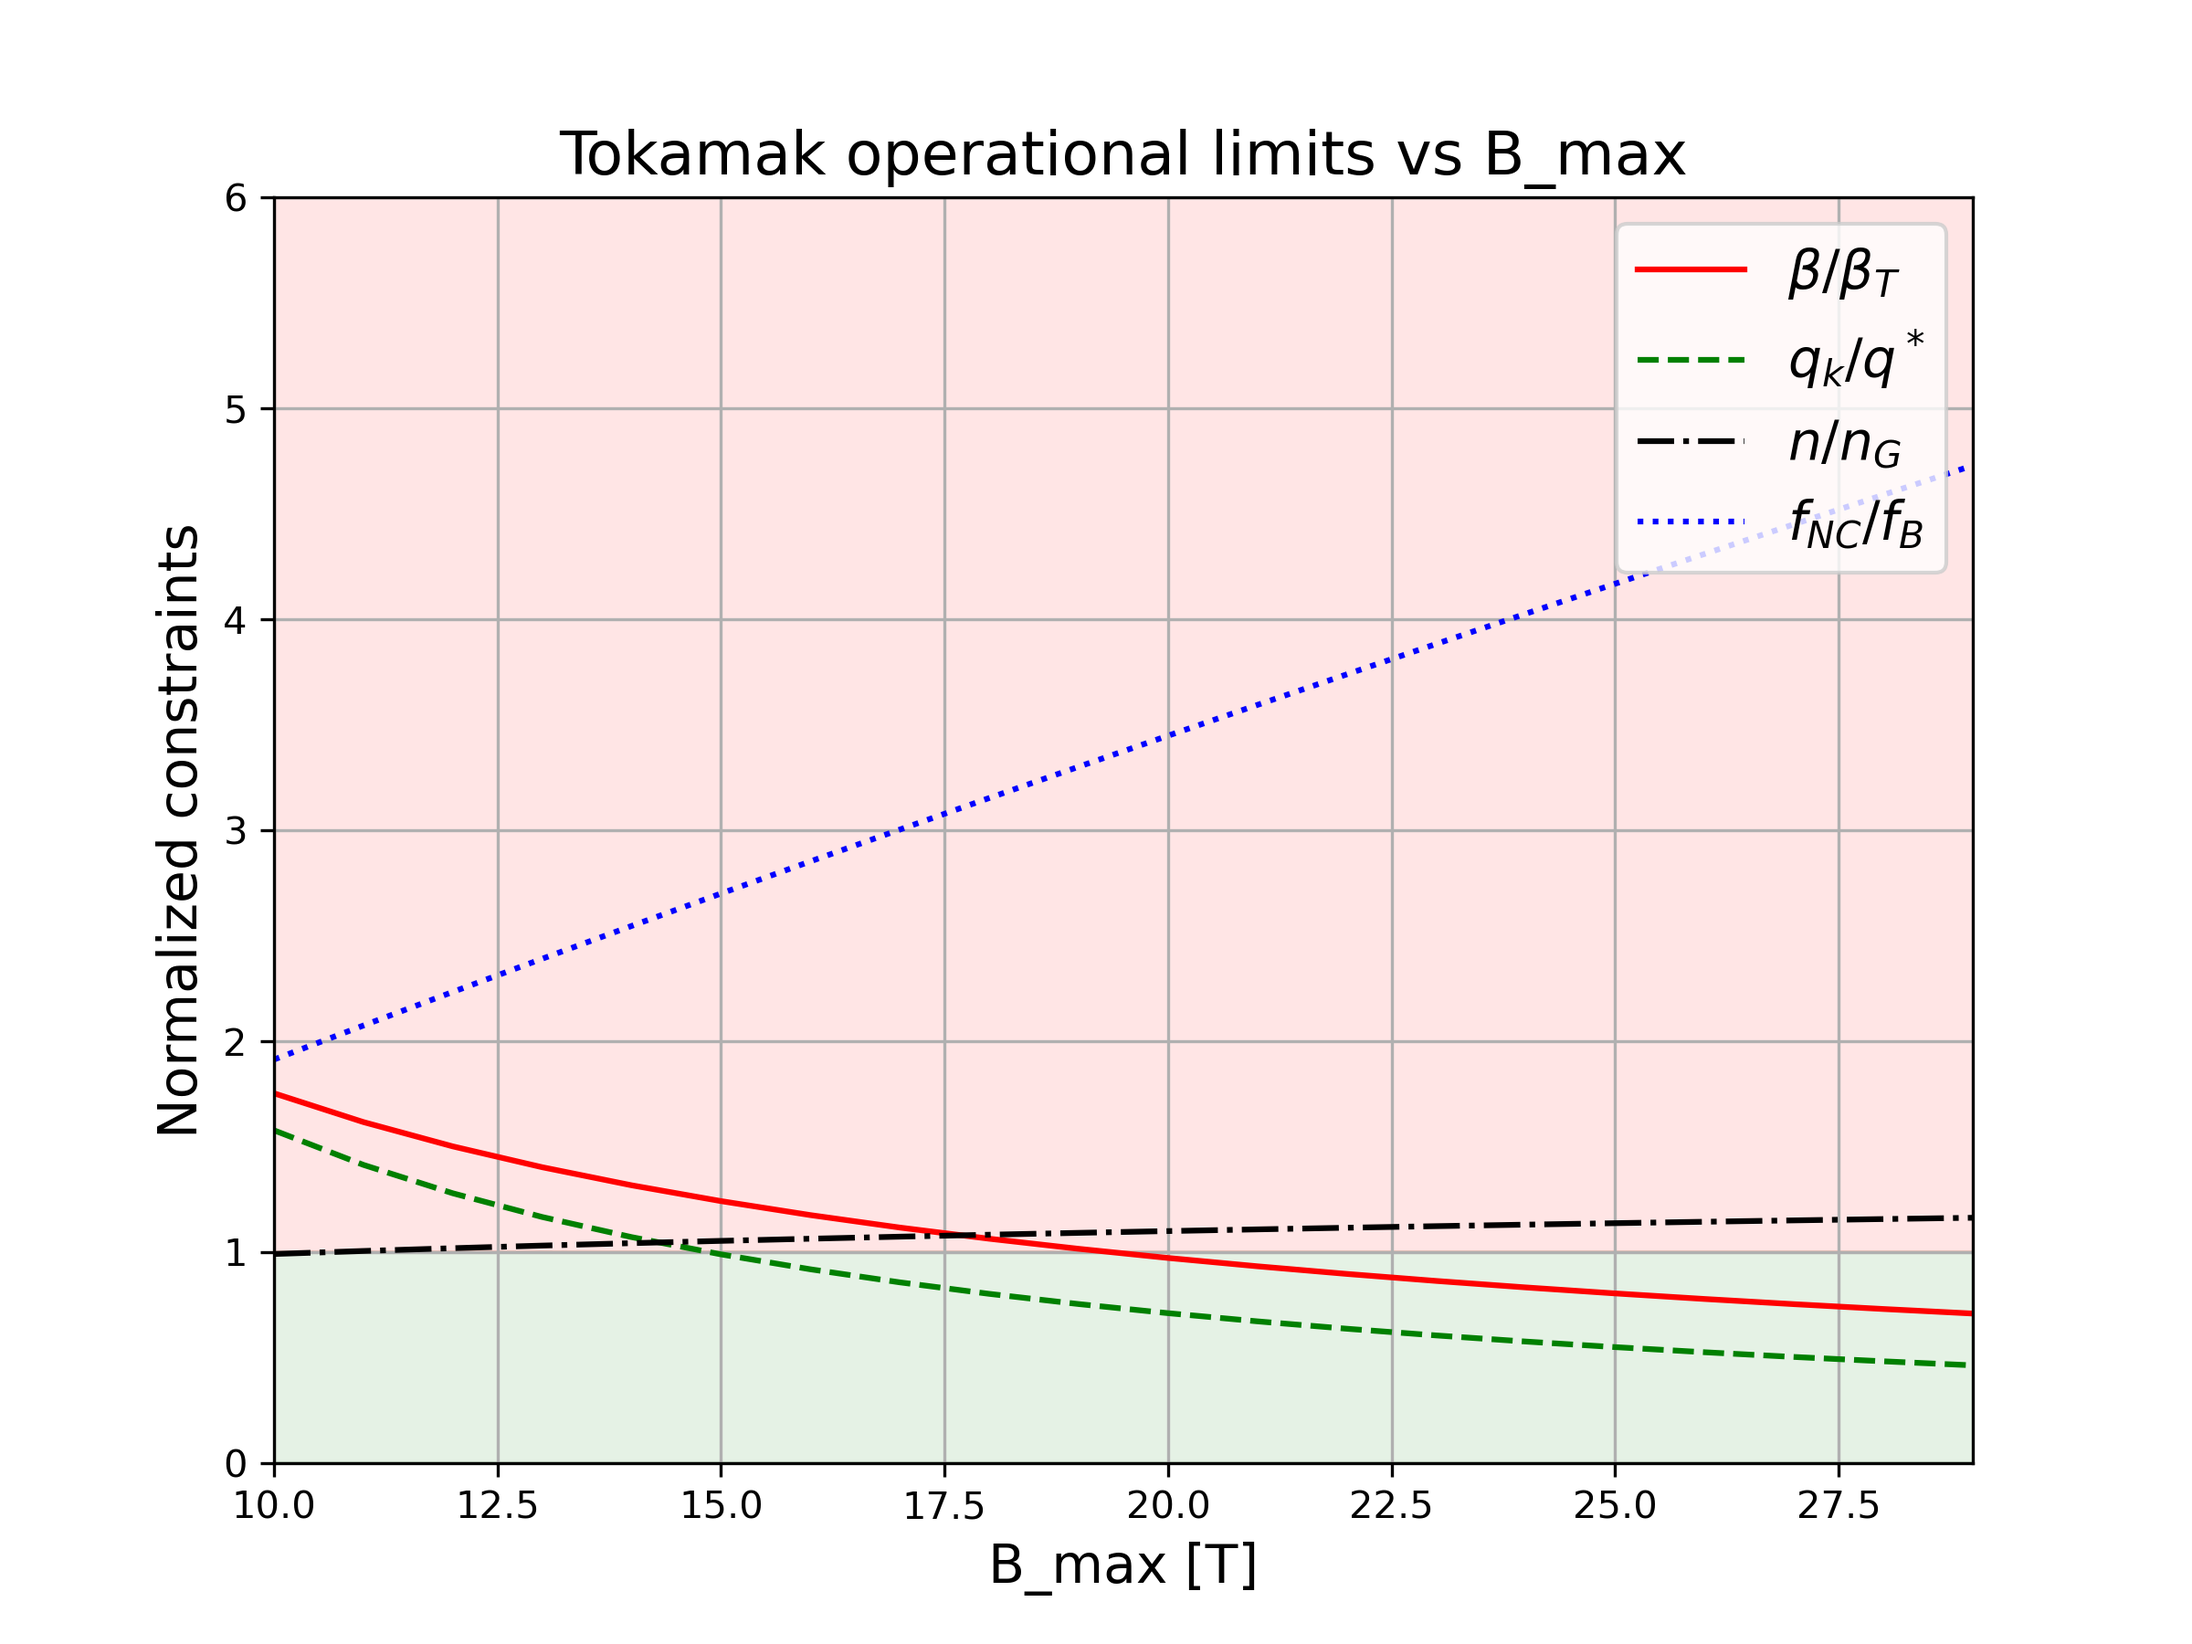
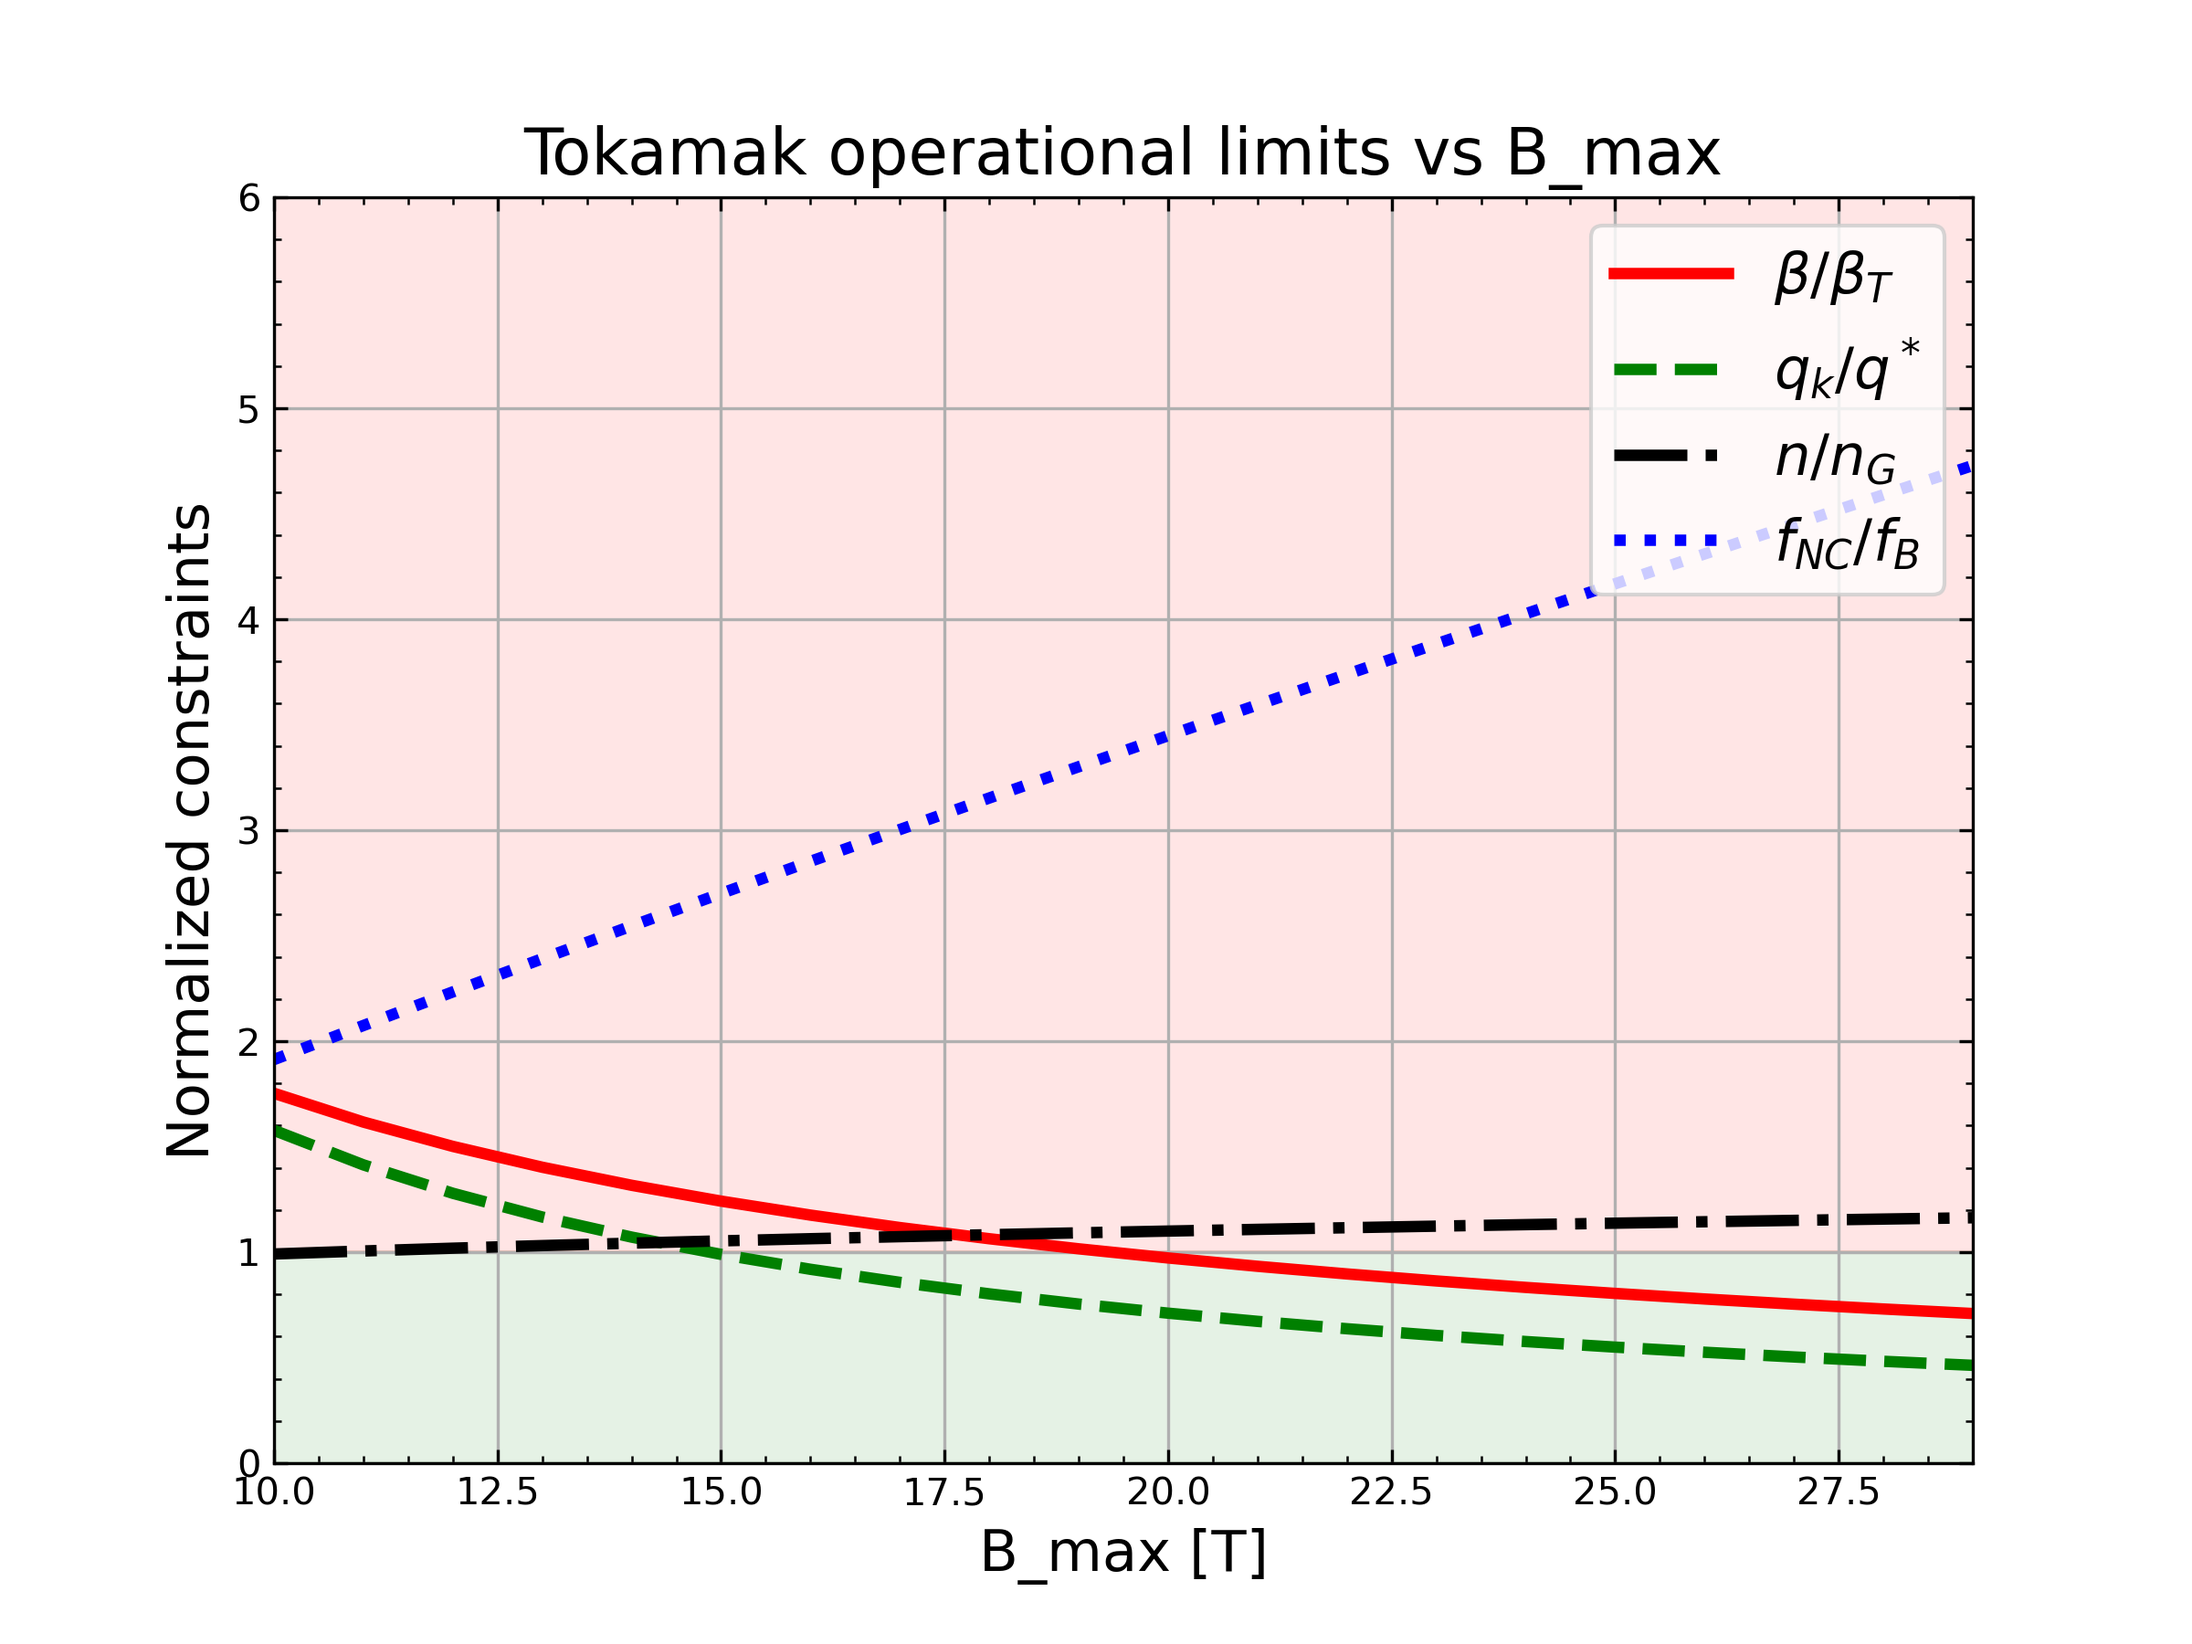
Plot style

diff --git a/Optimization.py b/Optimization.py
@@ -376,16 +376,17 @@ def Param_Sweep(vals,param_name, unit = "-"):
     # Plot
     fig = plt.figure(figsize=(8,6))
 
-    plt.plot(vals, beta_hist/betaT_hist, label=r'$\beta / \beta_T$', color='red', linestyle='solid')
-    plt.plot(vals, qk/qstar_hist, label=r'$q_k / q^*$', color='green', linestyle='dashed')
-    plt.plot(vals, n_hist/(nG_hist*(10**20)), label=r'$n / n_G$', color='black', linestyle='dashdot')
-    plt.plot(vals, fNB/fB_hist, label=r'$f_{NC} / f_B$', color='blue', linestyle='dotted')
+    thickness = 3
+    plt.plot(vals, beta_hist/betaT_hist, label=r'$\beta / \beta_T$', color='red', linestyle='solid', linewidth=thickness)
+    plt.plot(vals, qk/qstar_hist, label=r'$q_k / q^*$', color='green', linestyle='dashed', linewidth=thickness)
+    plt.plot(vals, n_hist/(nG_hist*(10**20)), label=r'$n / n_G$', color='black', linestyle='dashdot', linewidth=thickness)
+    plt.plot(vals, fNB/fB_hist, label=r'$f_{NC} / f_B$', color='blue', linestyle='dotted', linewidth=thickness)
 
-    plt.xlabel(f'{param_name} [{unit}]', size=14)
+    plt.xlabel(f'{param_name} [{unit}]', size=15)
     # plt.ylim(0,5)
-    plt.ylabel('Normalized constraints', size=14)
-    plt.title(f'Tokamak operational limits vs {param_name}', size=16)
-    plt.legend(fontsize=14, loc='upper right')
+    plt.ylabel('Normalized constraints', size=15)
+    plt.title(f'Tokamak operational limits vs {param_name}', size=17)
+    plt.legend(fontsize=15, loc='upper right')
     plt.grid(True)
     # plt.savefig('Tokamak_Constraints_vs_Bmax.png', dpi=300)
 
@@ -393,6 +394,17 @@ def Param_Sweep(vals,param_name, unit = "-"):
     plt.fill_between(np.arange(0,100), 1, 100, color='red', alpha=0.1)
     plt.xlim(vals[0], vals[-1])
     plt.ylim(0, 6)
+
+    ax = plt.gca()
+    ax.tick_params(
+    axis='both',
+    which='both',
+    direction='in',
+    top=True,
+    right=True
+    )
+
+    ax.minorticks_on()
 
     return fig
 
